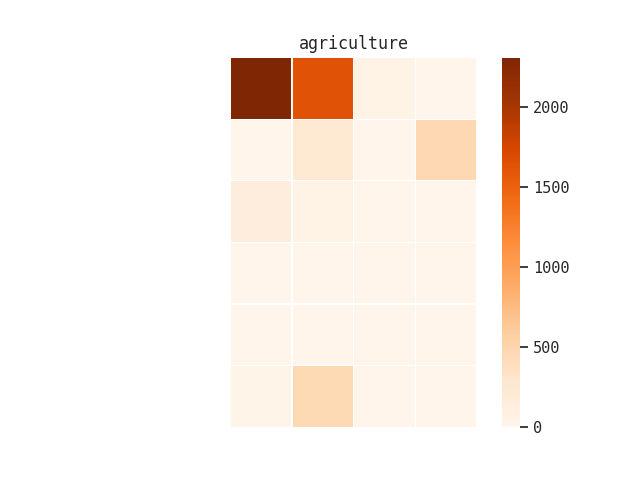
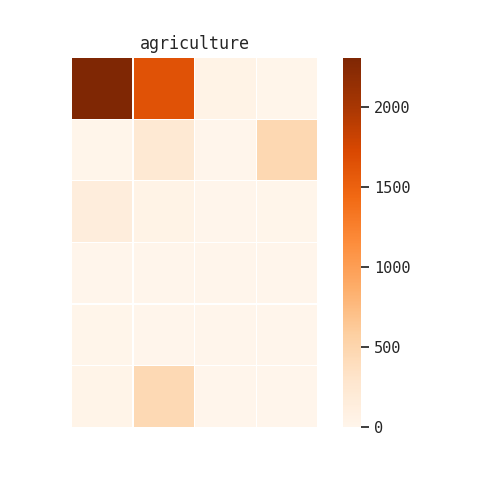
tweaking image paths and crops

Changed region(s): [[0.1247, 0.0625, 0.9044, 0.9062], [0.4366, 0.75, 0.5613, 0.9062], [0.2807, 0.75, 0.4054, 0.9062]]

diff --git a/_posts/2022-03-08-using-the-rac-collections-api-to-create-visualizations.md b/_posts/2022-03-08-using-the-rac-collections-api-to-create-visualizations.md
@@ -20,21 +20,21 @@ At the outset of this project, I wrote some small Python scripts which pulled da
 
 Initially, I focused on creating heatmaps which represented the location of search terms within a particular collection. These are a variation of sorts on the visualization we produce for the [minimap feature in DIMES](/implementing-a-jump-to-hit-feature-in-dimes). For example, I knew that “agriculture” was a term that occurred throughout the Rockefeller Foundation records, so I generated a heatmap of that term’s occurrence using the minimap endpoint:
 
-[!Distribution of agriculture term within Rockefeller Foundation collection](/assets/img/2022/03/agriculture-distribution.png)
+![Distribution of agriculture term within Rockefeller Foundation collection](/assets/img/2022/03/agriculture-distribution.png)
 
 I also tried this with “hookworm” and “malaria”:
 
-[!Distribution of hookworm term within Rockefeller Foundation collection](/assets/img/2022/03/hookworm-distribution.png)
+![Distribution of hookworm term within Rockefeller Foundation collection](/assets/img/2022/03/hookworm-distribution.png)
 
-[!Distribution of malaria term within Rockefeller Foundation collection](/assets/img/2022/03/malaria-distribution.png)
+![Distribution of malaria term within Rockefeller Foundation collection](/assets/img/2022/03/malaria-distribution.png)
 
 I tried a second version of this heatmap where I broke the collection up by record groups, and then made a heatmap of term occurrence within each of those large aggregations:
 
-[!Distribution of agriculture term within Rockefeller Foundation collection record groups](/assets/img/2022/03/agriculture-recordgroup.png)
+![Distribution of agriculture term within Rockefeller Foundation collection record groups](/assets/img/2022/03/agriculture-recordgroup.png)
 
-[!Distribution of hookworm term within Rockefeller Foundation collection record groups](/assets/img/2022/03/hookworm-recordgroup.png)
+![Distribution of hookworm term within Rockefeller Foundation collection record groups](/assets/img/2022/03/hookworm-recordgroup.png)
 
-[!Distribution of malaria term within Rockefeller Foundation collection record groups](/assets/img/2022/03/malaria-recordgroup.png)
+![Distribution of malaria term within Rockefeller Foundation collection record groups](/assets/img/2022/03/malaria-recordgroup.png)
 
 Although these visualizations were interesting, they didn’t give me a lot of new information that one of our reference archivists or an experienced researcher wouldn’t already know.
 
@@ -50,15 +50,15 @@ What trends in funding can we see by looking for grants on specific topics such 
 
 Since these questions involved the element of time, I created a second round of line graph visualizations using data from the Grants series of the Ford Foundation records:
 
-[!Grants matching the term scholarship](/assets/img/2022/03/scholarship.png)
+![Grants matching the term scholarship](/assets/img/2022/03/scholarship.png)
 
-[!Grants matching the term fellowship](/assets/img/2022/03/fellowship.png)
+![Grants matching the term fellowship](/assets/img/2022/03/fellowship.png)
 
-[!Grants matching the term government of](/assets/img/2022/03/government_of.png)
+![Grants matching the term government of](/assets/img/2022/03/government_of.png)
 
-[!Grants matching the term HIV](/assets/img/2022/03/hiv.png)
+![Grants matching the term HIV](/assets/img/2022/03/hiv.png)
 
-[!Grants matching the term sexuality](/assets/img/2022/03/sexuality.png)
+![Grants matching the term sexuality](/assets/img/2022/03/sexuality.png)
 
 I was also able to combine multiple line graphs together to show how various trends relate to one another, for example, how different funding strategies used by the Ford Foundation compare over time:
 
